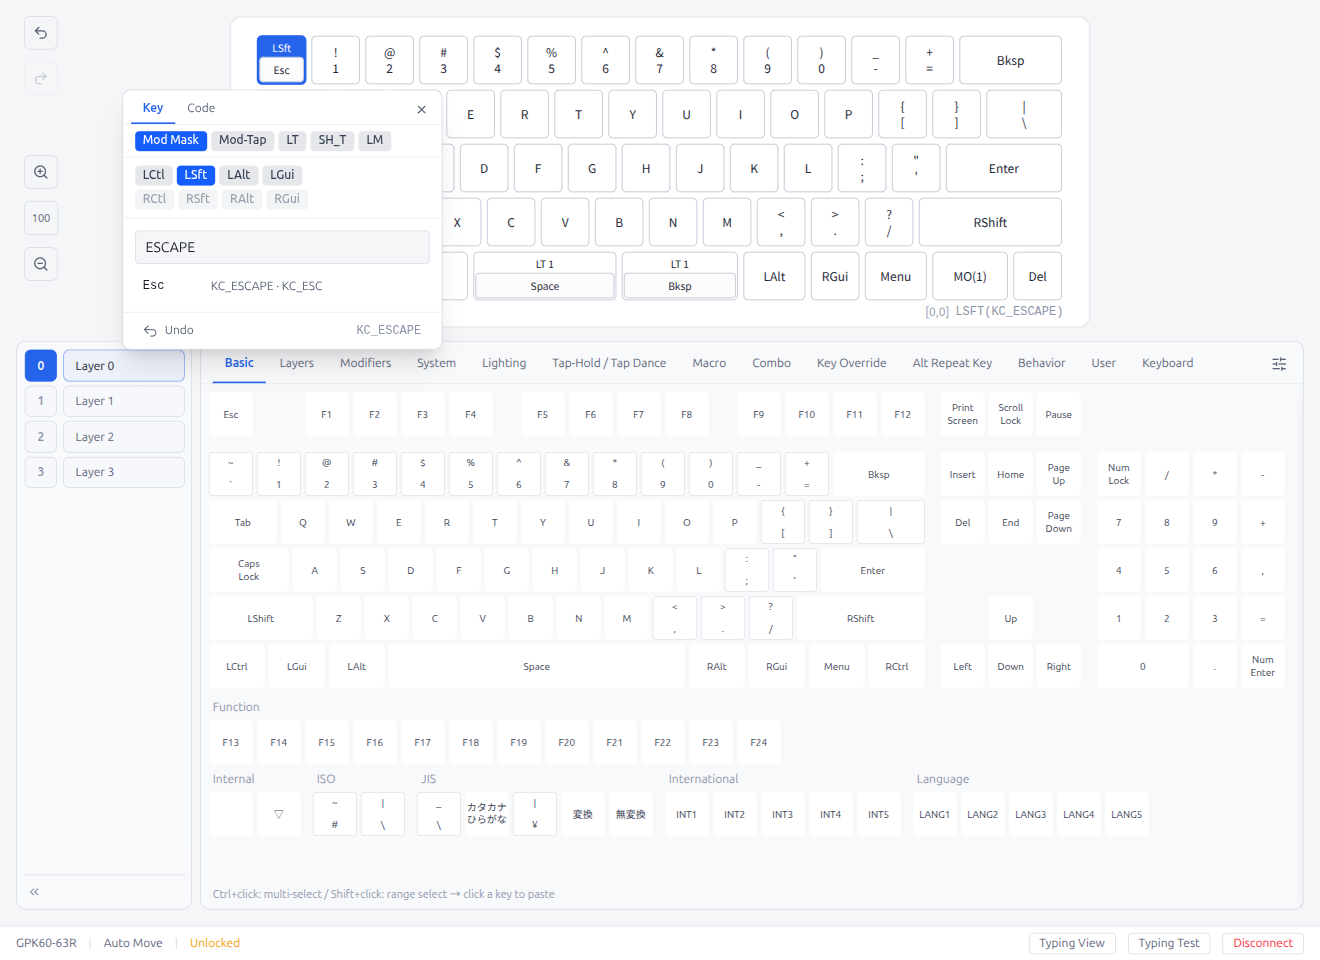
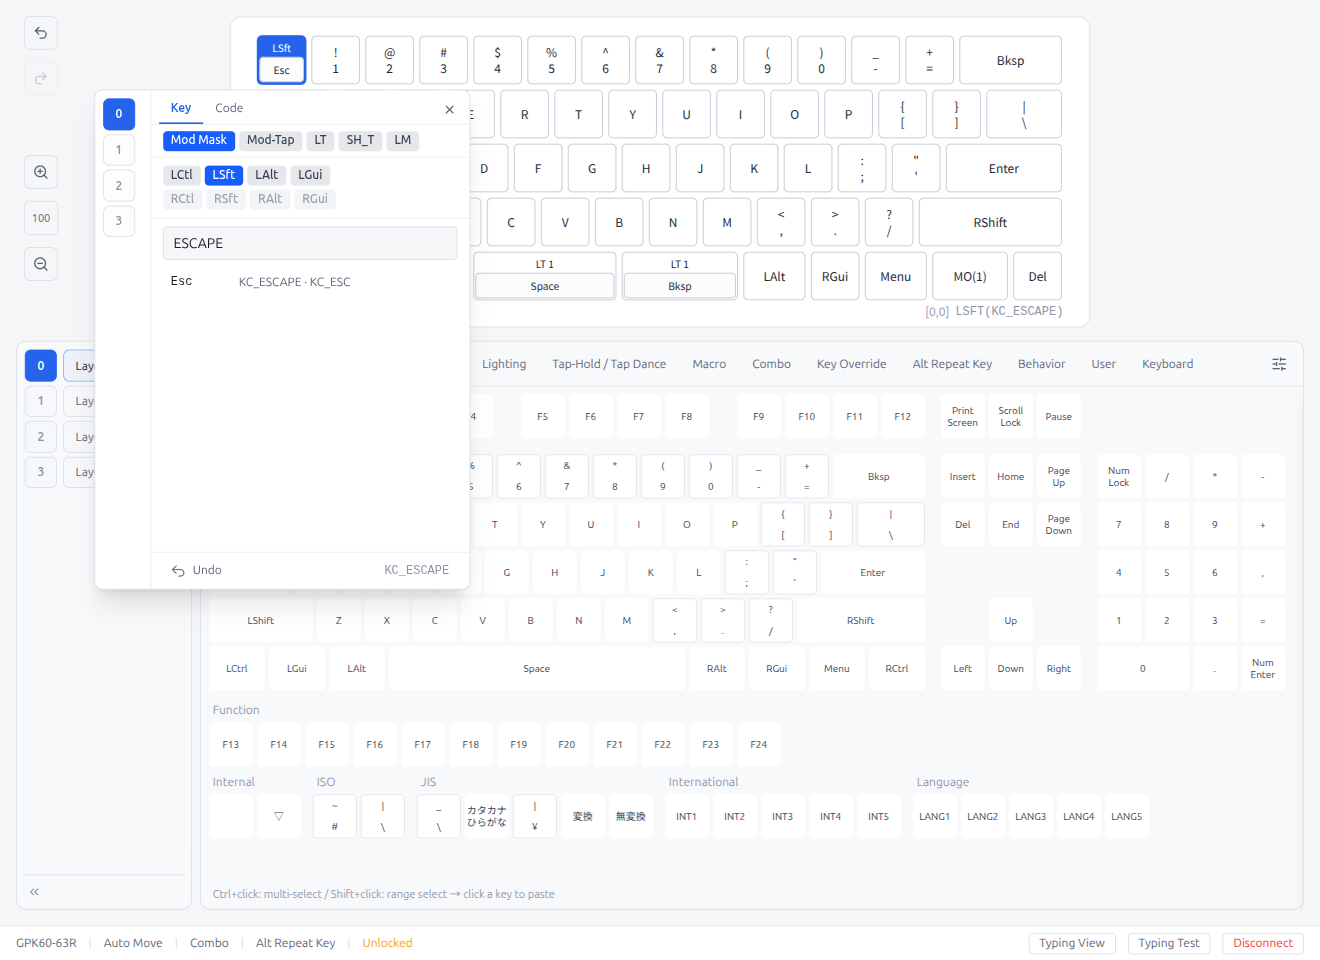
feat(ui): add layer switching sidebar to key popover (#157)
* feat(ui): add layer switching sidebar to key popover

Add a vertical layer sidebar on the left side of the KeyPopover,
allowing users to switch layers without closing the popover.
Layer buttons match LayerListPanel styling for visual consistency.

* docs(ui): add layer sidebar section to operation guide and update screenshots

Add Layer Sidebar documentation to Key Popover section in both English
and Japanese operation guides. Update screenshot capture helper with
view-only mode exit fix and layer sidebar capture step.

diff --git a/src/renderer/components/keycodes/KeyPopover.tsx b/src/renderer/components/keycodes/KeyPopover.tsx
@@ -38,6 +38,9 @@ interface KeyPopoverProps {
   emptyInitial?: boolean   // When true, start with empty search (no current keycode)
   maskOnly?: boolean
   layers?: number
+  currentLayer?: number
+  onLayerChange?: (layer: number) => void
+  layerNames?: string[]
   onKeycodeSelect: (kc: Keycode) => void
   onRawKeycodeSelect: (code: number) => void
   onModMaskChange?: (newMask: number) => void
@@ -50,7 +53,18 @@ interface KeyPopoverProps {
   onRedo?: () => void      // Re-apply nextKeycode and close
 }
 
+function detectWrapperMode(keycode: number, maskOnly?: boolean): WrapperMode {
+  if (maskOnly) return 'none'
+  if (isLTKeycode(keycode)) return 'lt'
+  if (isSHTKeycode(keycode)) return 'shT'
+  if (isLMKeycode(keycode)) return 'lm'
+  if (isModTapKeycode(keycode)) return 'modTap'
+  if (isModMaskKeycode(keycode)) return 'modMask'
+  return 'none'
+}
+
 const POPOVER_WIDTH = 320
+const LAYER_SIDEBAR_WIDTH = 56
 const POPOVER_GAP = 6
 
 export function KeyPopover({
@@ -59,6 +73,9 @@ export function KeyPopover({
   emptyInitial,
   maskOnly,
   layers = 16,
+  currentLayer,
+  onLayerChange,
+  layerNames,
   onKeycodeSelect,
   onRawKeycodeSelect,
   onModMaskChange,
@@ -81,15 +98,7 @@ export function KeyPopover({
   const [pendingAction, setPendingAction] = useState<PendingAction | null>(null)
 
   // Wrapper mode: determines how modifier + basic key are combined
-  const [wrapperMode, setWrapperMode] = useState<WrapperMode>(() => {
-    if (maskOnly) return 'none'
-    if (isLTKeycode(currentKeycode)) return 'lt'
-    if (isSHTKeycode(currentKeycode)) return 'shT'
-    if (isLMKeycode(currentKeycode)) return 'lm'
-    if (isModTapKeycode(currentKeycode)) return 'modTap'
-    if (isModMaskKeycode(currentKeycode)) return 'modMask'
-    return 'none'
-  })
+  const [wrapperMode, setWrapperMode] = useState<WrapperMode>(() => detectWrapperMode(currentKeycode, maskOnly))
 
   // Layer selection for LT / LM modes
   const [selectedLayer, setSelectedLayer] = useState<number>(() => {
@@ -107,6 +116,29 @@ export function KeyPopover({
     return 0
   })()
 
+  const showLayerSidebar = currentLayer != null && onLayerChange != null && layers > 1
+  const popoverWidth = showLayerSidebar ? POPOVER_WIDTH + LAYER_SIDEBAR_WIDTH : POPOVER_WIDTH
+
+  const handleLayerSidebarClick = useCallback(
+    (layer: number) => {
+      if (!onLayerChange || layer === currentLayer) return
+      onLayerChange(layer)
+    },
+    [onLayerChange, currentLayer],
+  )
+
+  const prevCurrentLayerRef = useRef(currentLayer)
+  useEffect(() => {
+    if (currentLayer == null || currentLayer === prevCurrentLayerRef.current) return
+    prevCurrentLayerRef.current = currentLayer
+    setWrapperMode(detectWrapperMode(currentKeycode, maskOnly))
+    if (isLTKeycode(currentKeycode)) setSelectedLayer(extractLTLayer(currentKeycode))
+    else if (isLMKeycode(currentKeycode)) setSelectedLayer(extractLMLayer(currentKeycode))
+    else setSelectedLayer(0)
+    setSearchResetKey((k) => k + 1)
+    setPendingAction(null)
+  }, [currentLayer, currentKeycode, maskOnly])
+
   useLayoutEffect(() => {
     const el = popoverRef.current
     if (!el) return
@@ -123,11 +155,11 @@ export function KeyPopover({
     top = Math.max(4, Math.min(top, vh - popH - 4))
 
     // Horizontal: center on the key, clamp to viewport
-    let left = anchorRect.left + anchorRect.width / 2 - POPOVER_WIDTH / 2
-    left = Math.max(4, Math.min(left, vw - POPOVER_WIDTH - 4))
+    let left = anchorRect.left + anchorRect.width / 2 - popoverWidth / 2
+    left = Math.max(4, Math.min(left, vw - popoverWidth - 4))
 
     setPosition({ top, left })
-  }, [anchorRect, activeTab, wrapperMode])
+  }, [anchorRect, activeTab, wrapperMode, popoverWidth])
 
   useEffect(() => {
     const handler = (e: MouseEvent) => {
@@ -316,14 +348,40 @@ export function KeyPopover({
     <div
       ref={popoverRef}
       data-popover="key"
-      className="fixed z-50 rounded-lg border border-edge bg-surface-alt shadow-xl"
+      className="fixed z-50 flex flex-col rounded-lg border border-edge bg-surface-alt shadow-xl"
       style={{
         top: position.top,
         left: position.left,
-        width: POPOVER_WIDTH,
+        width: popoverWidth,
+        height: showLayerSidebar ? 500 : undefined,
+        paddingLeft: showLayerSidebar ? LAYER_SIDEBAR_WIDTH : undefined,
       }}
       data-testid="key-popover"
     >
+      {showLayerSidebar && (
+        <div
+          className="absolute bottom-0 left-0 top-0 flex flex-col gap-1 overflow-y-auto border-r border-edge-subtle p-2"
+          style={{ width: LAYER_SIDEBAR_WIDTH, scrollbarWidth: 'thin', scrollbarGutter: 'stable' }}
+          data-testid="popover-layer-sidebar"
+        >
+          {Array.from({ length: layers }, (_, i) => (
+            <button
+              key={i}
+              type="button"
+              onClick={() => handleLayerSidebarClick(i)}
+              className={`w-8 shrink-0 rounded-md border flex items-center justify-center py-1.5 text-[12px] font-semibold tabular-nums transition-colors ${
+                currentLayer === i
+                  ? 'border-accent bg-accent text-content-inverse'
+                  : 'border-edge bg-surface/20 text-content-muted hover:bg-surface-dim'
+              }`}
+              title={layerNames?.[i] || undefined}
+              data-testid={`popover-layer-${i}`}
+            >
+              {i}
+            </button>
+          ))}
+        </div>
+      )}
       <div className="flex border-b border-edge-subtle px-2 pt-1">
         <button type="button" className={tabClass('key')} onClick={() => setActiveTab('key')} data-testid="popover-tab-key">
           {t('editor.keymap.keyPopover.keyTab')}
@@ -409,7 +467,7 @@ export function KeyPopover({
         </div>
       )}
 
-      <div className="p-3">
+      <div className="flex min-h-0 flex-1 flex-col px-3 py-2">
         {activeTab === 'key' && wrapperMode !== 'lm' && (
           <PopoverTabKey
             key={searchResetKey}

diff --git a/e2e/helpers/doc-capture-key-popover.ts b/e2e/helpers/doc-capture-key-popover.ts
@@ -70,6 +70,22 @@ async function main(): Promise<void> {
 
     await dismissNotificationModal(page)
 
+    // Exit Typing Test view-only / typing test mode if persisted from prior run
+    const viewOnlyToggle = page.locator('[data-testid="view-only-toggle"]')
+    if (await isAvailable(viewOnlyToggle)) {
+      console.log('  [reset] Exiting Typing Test view-only mode')
+      await viewOnlyToggle.evaluate((el: HTMLElement) => el.click())
+      await page.waitForTimeout(2000)
+      await page.setViewportSize({ width: 1320, height: 960 })
+      await page.waitForTimeout(1000)
+    }
+    const typingTestBtn = page.locator('[data-testid="typing-test-button"]')
+    if (await isAvailable(typingTestBtn) && (await typingTestBtn.getAttribute('data-active')) === 'true') {
+      console.log('  [reset] Exiting Typing Test mode')
+      await typingTestBtn.click()
+      await page.waitForTimeout(500)
+    }
+
     // Ensure layer 0 and Basic tab
     const editorContent = page.locator('[data-testid="editor-content"]')
     const layer0Btn = editorContent.locator('button', { hasText: /^0$/ })
@@ -88,8 +104,12 @@ async function main(): Promise<void> {
     if (!(await isAvailable(keyLabel))) {
       throw new Error('No key label found in layout')
     }
+    await page.evaluate(() => window.scrollTo(0, 0))
+    await page.waitForTimeout(300)
 
-    await keyLabel.dblclick({ force: true })
+    await keyLabel.evaluate((el) => {
+      el.dispatchEvent(new MouseEvent('dblclick', { bubbles: true, cancelable: true }))
+    })
     await page.waitForTimeout(500)
 
     const popover = page.locator('[data-testid="key-popover"]')
@@ -98,6 +118,9 @@ async function main(): Promise<void> {
     }
 
     console.log('\n--- Key Popover Screenshots ---')
+
+    // Layer sidebar (popover with layer buttons on the left)
+    await capture(page, 'key-popover-layer-sidebar')
 
     // 32: Key tab (default, shows all mode buttons)
     await capture(page, '32-key-popover-key')

diff --git a/src/renderer/components/editors/KeymapEditor.tsx b/src/renderer/components/editors/KeymapEditor.tsx
@@ -49,6 +49,8 @@ interface PopoverForStateProps {
   encoderLayout: Map<string, number>
   currentLayer: number
   layers: number
+  onLayerChange?: (layer: number) => void
+  layerNames?: string[]
   onKeycodeSelect: (kc: Keycode) => void
   onRawKeycodeSelect: (code: number) => void
   onModMaskChange?: (newMask: number) => void
@@ -62,6 +64,7 @@ interface PopoverForStateProps {
 
 function PopoverForState({
   popoverState, keymap, encoderLayout, currentLayer, layers,
+  onLayerChange, layerNames,
   onKeycodeSelect, onRawKeycodeSelect, onModMaskChange, onClose,
   quickSelect, previousKeycode, onUndo, nextKeycode, onRedo,
 }: PopoverForStateProps) {
@@ -72,6 +75,7 @@ function PopoverForState({
   return (
     <KeyPopover
       anchorRect={popoverState.anchorRect} currentKeycode={currentKeycode} maskOnly={maskOnly} layers={layers}
+      currentLayer={currentLayer} onLayerChange={onLayerChange} layerNames={layerNames}
       onKeycodeSelect={onKeycodeSelect} onRawKeycodeSelect={onRawKeycodeSelect} onModMaskChange={onModMaskChange}
       onClose={onClose} quickSelect={quickSelect} previousKeycode={previousKeycode} onUndo={onUndo}
       nextKeycode={nextKeycode} onRedo={onRedo}
@@ -977,6 +981,7 @@ export const KeymapEditor = forwardRef<import('./keymap-editor-types').KeymapEdi
         <PopoverForState
           popoverState={popoverState} keymap={keymap} encoderLayout={encoderLayout}
           currentLayer={currentLayer} layers={layers}
+          onLayerChange={onLayerChange} layerNames={layerNames}
           onKeycodeSelect={handlePopoverKeycodeSelect} onRawKeycodeSelect={handlePopoverRawKeycodeSelect}
           onModMaskChange={handlePopoverModMaskChange}
           onClose={() => setPopoverState(null)} quickSelect={quickSelect}

diff --git a/src/renderer/components/keycodes/PopoverTabKey.tsx b/src/renderer/components/keycodes/PopoverTabKey.tsx
@@ -170,7 +170,7 @@ export function PopoverTabKey({ currentKeycode, emptyInitial, maskOnly, modMask 
   const handleDetailMouseLeave = useCallback(() => setTooltip(null), [])
 
   return (
-    <div ref={containerRef} className="relative flex flex-col gap-2">
+    <div ref={containerRef} className="relative flex min-h-0 flex-1 flex-col gap-2">
       <input
         type="text"
         value={query}
@@ -180,7 +180,7 @@ export function PopoverTabKey({ currentKeycode, emptyInitial, maskOnly, modMask 
         autoFocus
         data-testid="popover-search-input"
       />
-      <div className="max-h-[240px] overflow-y-auto" onScroll={handleDetailMouseLeave}>
+      <div className="min-h-0 flex-1 overflow-y-auto" onScroll={handleDetailMouseLeave}>
         {query.trim() && results.length === 0 && (
           suppressResults && onClose ? (
             <button

diff --git a/src/renderer/components/editors/useKeymapSelectionHandlers.ts b/src/renderer/components/editors/useKeymapSelectionHandlers.ts
@@ -129,7 +129,6 @@ export function useKeymapSelectionHandlers({
   useEffect(() => {
     const layerChanged = prevLayerRef.current !== currentLayer
     prevLayerRef.current = currentLayer
-    setPopoverState(null)
     if (layerChanged) { clearMultiSelection(); clearPickerSelection() }
   }, [currentLayer, clearMultiSelection, clearPickerSelection])
 

diff --git a/README.md b/README.md
@@ -138,7 +138,7 @@ Without this permission, Monitor App silently records `null` for every minute on
 
 ### Keyboard Configuration
 
-- **Keymap Editor** — Layer-based key assignment with drag & drop, auto-advance, and a searchable keycode palette with Mod Mask/Mod-Tap wrapper modes. Basic tab supports ANSI, ISO, JIS, and List views with International (INT1–5) and Language (LANG1–5) keycode groups. Reorganized key picker tabs (System, Behavior, dedicated Combo/Key Override/Alt Repeat Key tabs) with instant key selection. Keymap change history with undo/redo via toolbar buttons, keyboard shortcuts (Ctrl/Cmd+Z, Ctrl+Y/Ctrl/Cmd+Shift+Z), and popover undo/redo
+- **Keymap Editor** — Layer-based key assignment with drag & drop, auto-advance, and a searchable keycode palette with Mod Mask/Mod-Tap wrapper modes. Basic tab supports ANSI, ISO, JIS, and List views with International (INT1–5) and Language (LANG1–5) keycode groups. Reorganized key picker tabs (System, Behavior, dedicated Combo/Key Override/Alt Repeat Key tabs) with instant key selection. Keymap change history with undo/redo via toolbar buttons, keyboard shortcuts (Ctrl/Cmd+Z, Ctrl+Y/Ctrl/Cmd+Shift+Z), and popover undo/redo. Key popover includes a layer switching sidebar for quick layer navigation without closing the popover
 - **Layout Editor** — Physical layout switching via slide-out panel (split backspace, bottom row variants, etc.)
 - **Tap Dance** — Multi-tap key behaviors (tap, hold, double-tap, tap+hold, custom tapping term) with inline favorites
 - **Combo** — Simultaneous key-press to trigger output keys; inline tile grid with detail editor modal and inline favorites

diff --git a/docs/OPERATION-GUIDE.md b/docs/OPERATION-GUIDE.md
@@ -587,6 +587,12 @@ Click the collapse button (chevron) to minimize the layer panel to just numbers.
 
 Double-click a key on the keyboard layout to open the Key Popover — a quick way to search and assign keycodes without scrolling through the palette.
 
+**Layer Sidebar**
+
+![Key Popover — Layer Sidebar](screenshots/key-popover-layer-sidebar.png)
+
+A vertical layer sidebar appears on the left side of the popover, matching the layer panel buttons. Click a layer number to switch layers without closing the popover. If the number of layers exceeds the popover height, the sidebar scrolls independently.
+
 **Key Tab**
 
 ![Key Popover — Key Tab](screenshots/key-popover-key.png)
